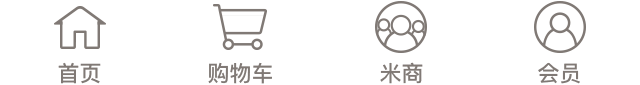
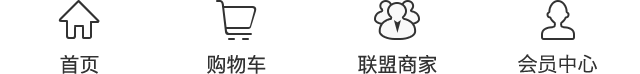
佣金功能调整，雪碧图优化 等。

diff --git a/themes/mobiles/css/m.css b/themes/mobiles/css/m.css
@@ -1511,8 +1511,8 @@ a.ph_btn{
 }
 
 .is_confirm{
-  top: 55%;
-  left: -20%;
+  top: -35%;
+  left: 30%;
   -webkit-animation: cartFly .6s ease 0s 1 both;
   animation: cartFly .6s ease 0s 1 both; 
 }
@@ -5467,37 +5467,45 @@ td.cash_td2 img {
   	text-align: center;	
 }
 
-#s_sy{
-	background:url(../img/sy1.png) no-repeat center;
-	background-size:40px 36px;
+#s_sy {
+	background: url(../img/bot_n.png) no-repeat;
+	background-position: 0px 5px;
+	background-size: auto 37px;
 }
-#s_sy.on{
-	background:url(../img/sy2.png) no-repeat center;
-	background-size:40px 36px;
+#s_sy.on {
+	background: url(../img/bot_p.png) no-repeat;
+	background-position: 0 5px;
+	background-size: auto 37px;
 }
-#s_gwc{
-	background:url(../img/gwc1.png) no-repeat center;
-	background-size:40px 36px;
+#s_gwc {
+	background: url(../img/bot_n.png) no-repeat;
+	background-position: -78px 5px;
+	background-size: auto 37px;
 }
-#s_gwc.on{
-	background:url(../img/gwc2.png) no-repeat center;
-	background-size:40px 36px;
+#s_gwc.on {
+	background: url(../img/bot_p.png) no-repeat;
+	background-position: -78px 5px;
+	background-size: auto 37px;
 }
-#s_lmsj{
-	background:url(../img/lmsj1.png) no-repeat center;
-	background-size:40px 36px;
+#s_lmsj {
+	background: url(../img/bot_n.png) no-repeat;
+	background-position: -160px 5px;
+	background-size: auto 37px;
 }
-#s_lmsj.on{
-	background:url(../img/lmsj2.png) no-repeat center;
-	background-size:40px 36px;
+#s_lmsj.on {
+	background: url(../img/bot_p.png) no-repeat;
+	background-position: -160px 5px;
+	background-size: auto 37px;
 }
-#s_hyzx{
-	background:url(../img/hyzx1.png) no-repeat center;
-	background-size:40px 36px;
+#s_hyzx {
+	background: url(../img/bot_n.png) no-repeat;
+	background-position: -240px 5px;	
+	background-size: auto 37px;
 }
-#s_hyzx.on{
-	background:url(../img/hyzx2.png) no-repeat center;
-	background-size:40px 36px;
+#s_hyzx.on {
+	background: url(../img/bot_p.png) no-repeat;
+	background-position: -240px 5px;
+	background-size: auto 37px;
 }
 
 /* 支付成功*/

diff --git a/cwstat.php b/cwstat.php
@@ -194,7 +194,7 @@ elseif (3==$type) { //代理相关数据
 $from_time = $from_time ? simphp_gmtime($from_time) : 0;
 	$to_time   = $to_time   ? simphp_gmtime($to_time)   : 0;
 	
-	$csv = "商家名称,商家ID,订单号,父订单编号,微信交易号,订单金额,进货价(商家收入),产生佣金,订单时间,快递单号".CSV_LN;
+	$csv = "商家名称,商家ID,订单号,父订单编号,微信交易号,订单金额,折扣后金额,进货价(商家收入),产生佣金,订单时间,快递单号".CSV_LN;
 	
 	//获取商家收入订单详情
 	$list = ThisFn::getMerchantPackageOrderDetail($from_time, $to_time, true);
@@ -202,20 +202,22 @@ $from_time = $from_time ? simphp_gmtime($from_time) : 0;
 		$totalOrderAmount  = 0.00;
 		$totalIncomePrice  = 0.00;
 		$totalCommision    = 0.00;
+		$totalDiscount = 0.00;
 		foreach ($list AS $it) {
 			$it['merchant_id'] = $it['merchant_id'] ? : '';
-			$csv .= '"'.$it['merchant_name'].'"'.CSV_SEP.$it['merchant_id'].CSV_SEP.$it['order_sn'].CSV_SEP.$it['parent_id'].CSV_SEP.$it['pay_trade_no'].CSV_SEP.$it['money_paid'].CSV_SEP.$it['income_price'].CSV_SEP.$it['commision'].CSV_SEP.'"'.simphp_dtime('std',simphp_gmtime2std($it['pay_time'])).'"'.CSV_SEP.'"'.$it['invoice_no'].'"'.CSV_LN;
+			$csv .= '"'.$it['merchant_name'].'"'.CSV_SEP.$it['merchant_id'].CSV_SEP.$it['order_sn'].CSV_SEP.$it['parent_id'].CSV_SEP.$it['pay_trade_no'].CSV_SEP.$it['money_paid'].CSV_SEP.$it['discount'].CSV_SEP.$it['income_price'].CSV_SEP.$it['commision'].CSV_SEP.'"'.simphp_dtime('std',simphp_gmtime2std($it['pay_time'])).'"'.CSV_SEP.'"'.$it['invoice_no'].'"'.CSV_LN;
 			$totalOrderAmount += $it['money_paid'];
 			$totalIncomePrice += $it['income_price'];
 			$totalCommision   += $it['commision'];
+			$totalDiscount += $it['discount'];
 		}
-		$csv .= '合计'.CSV_SEP.'--'.CSV_SEP.'--'.CSV_SEP.'--'.CSV_SEP.$totalOrderAmount.CSV_SEP.$totalIncomePrice.CSV_SEP.$totalCommision.CSV_SEP.'--'.'--'.CSV_LN;
+		$csv .= '合计'.CSV_SEP.'--'.CSV_SEP.'--'.CSV_SEP.'--'.CSV_SEP.'--'.CSV_SEP.$totalOrderAmount.CSV_SEP.$totalDiscount.CSV_SEP.$totalIncomePrice.CSV_SEP.$totalCommision.CSV_SEP.'--'.'--'.CSV_LN;
 	}
 }elseif (5 == $type){
     $from_time = $from_time ? simphp_gmtime($from_time) : 0;
 	$to_time   = $to_time   ? simphp_gmtime($to_time)   : 0;
 	
-	$csv = "商家名称,商家ID,订单号,父订单编号,微信交易号,订单金额,进货价(商家收入),产生佣金,订单时间,快递单号".CSV_LN;
+	$csv = "商家名称,商家ID,订单号,父订单编号,微信交易号,订单金额,折扣后金额,进货价(商家收入),产生佣金,订单时间,快递单号".CSV_LN;
 	
 	//获取商家收入订单详情
 	$list = ThisFn::getMerchantPackageOrderDetail($from_time, $to_time);
@@ -223,14 +225,16 @@ $from_time = $from_time ? simphp_gmtime($from_time) : 0;
 		$totalOrderAmount  = 0.00;
 		$totalIncomePrice  = 0.00;
 		$totalCommision    = 0.00;
+		$totalDiscount = 0.00;
 		foreach ($list AS $it) {
 			$it['merchant_id'] = $it['merchant_id'] ? : '';
-			$csv .= '"'.$it['merchant_name'].'"'.CSV_SEP.$it['merchant_id'].CSV_SEP.$it['order_sn'].CSV_SEP.$it['parent_id'].CSV_SEP.$it['pay_trade_no'].CSV_SEP.$it['money_paid'].CSV_SEP.$it['income_price'].CSV_SEP.$it['commision'].CSV_SEP.'"'.simphp_dtime('std',simphp_gmtime2std($it['pay_time'])).'"'.CSV_SEP.'"'.$it['invoice_no'].'"'.CSV_LN;
+			$csv .= '"'.$it['merchant_name'].'"'.CSV_SEP.$it['merchant_id'].CSV_SEP.$it['order_sn'].CSV_SEP.$it['parent_id'].CSV_SEP.$it['pay_trade_no'].CSV_SEP.$it['money_paid'].CSV_SEP.$it['discount'].CSV_SEP.$it['income_price'].CSV_SEP.$it['commision'].CSV_SEP.'"'.simphp_dtime('std',simphp_gmtime2std($it['pay_time'])).'"'.CSV_SEP.'"'.$it['invoice_no'].'"'.CSV_LN;
 			$totalOrderAmount += $it['money_paid'];
 			$totalIncomePrice += $it['income_price'];
 			$totalCommision   += $it['commision'];
+			$totalDiscount += $it['discount'];
 		}
-		$csv .= '合计'.CSV_SEP.'--'.CSV_SEP.'--'.CSV_SEP.'--'.CSV_SEP.$totalOrderAmount.CSV_SEP.$totalIncomePrice.CSV_SEP.$totalCommision.CSV_SEP.'--'.'--'.CSV_LN;
+		$csv .= '合计'.CSV_SEP.'--'.CSV_SEP.'--'.CSV_SEP.'--'.CSV_SEP.'--'.CSV_SEP.$totalOrderAmount.CSV_SEP.$totalDiscount.CSV_SEP.$totalIncomePrice.CSV_SEP.$totalCommision.CSV_SEP.'--'.'--'.CSV_LN;
 	}
 }elseif (6 == $type){
     $from_time = $from_time ? simphp_gmtime($from_time) : 0;
@@ -513,11 +517,27 @@ ORDER BY merchant_id DESC, order_id ASC";
 	    }else{
 	        $where .= " and (shipping_status = 0 or (shipping_status > 0 and shipping_status <> 2 and shipping_time > 0 and shipping_time > {$time})) ";
 	    }
-	    $sql = "SELECT o.`merchant_ids` AS merchant_id, IFNULL(m.facename,'【测试商家】') AS merchant_name, o.`order_id`,o.parent_id,o.`order_sn`, o.`pay_trade_no`, o.`money_paid`, (o.`money_paid`-o.`commision`) AS income_price, o.`commision`, o.`pay_time`, o.`invoice_no`
+	    $sql = "SELECT o.`merchant_ids` AS merchant_id, IFNULL(m.facename,'【测试商家】') AS merchant_name,o.relate_order_id, o.`order_id`,o.parent_id,o.`order_sn`, o.`pay_trade_no`, o.`money_paid`, (o.`money_paid`-o.`commision`) AS income_price, o.`commision`, o.`pay_time`, o.`invoice_no`
 	    FROM  `shp_order_info` AS o LEFT JOIN `shp_merchant` AS m ON o.`merchant_ids` = m.merchant_id
 	    WHERE o.`pay_status`=2 AND o.`is_separate`=0 {$where}
 	    ORDER BY merchant_id DESC, order_id ASC";
 	    $list = D()->query($sql)->fetch_array_all();
+	    foreach ($list as &$it){
+	        $relate_order_id = $it['relate_order_id'];
+	        $order = Order::load($relate_order_id);
+	        $money = $order->money_paid;
+	        $radio = 0;
+	        if($money == 698){
+	            $radio = 500;
+	        }else if($money == 398){
+	            $radio = 300;
+	        }
+	        $it['discount'] = $it['money_paid'];
+	        if($radio){
+	            $it['discount'] = number_format(($it['money_paid']/$money), 3) * $radio;
+	            $it['commision'] = $it['discount'] - $it['income_price'];
+	        }
+	    }
 	    /* if($canSettlement){
 	        foreach ($list as $order){
 	            D()->query("insert into tb_tmp_settlement(order_id) values($order[order_id])");

diff --git a/statistic/OverviewData.php b/statistic/OverviewData.php
@@ -313,10 +313,11 @@ class OverviewData{
         }
         if($orderFlag === 0){
             $where .= " and order_flag = 0 ";
-        }else if($orderFlag > 0){
+            $sql = "select sum(commision) from shp_order_info where pay_status = 2 and is_separate = 0 $where ";
+        }else if($orderFlag == 1 || $orderFlag == 2){
             $where .= " and order_flag = $orderFlag ";
+            $sql = "select sum(money_paid) from shp_order_info where pay_status = 2 and is_separate = 0 $where ";
         }
-        $sql = "select sum(money_paid) from shp_order_info where pay_status = 2 and is_separate = 0 $where ";
         return D()->query($sql)->result();    
     }
     
@@ -351,26 +352,6 @@ class OverviewData{
     }
     
     public function platformAnalysis(){
-        //商品销售毛收入
-        $gpaid = $this->getOrderMoney('', 0);
-        $gpaidInDay = $this->getOrderMoney(self::DAY, 0);
-        $gpaidInWeek = $this->getOrderMoney(self::WEEK, 0);
-        $gpaidInMonth = $this->getOrderMoney(self::MONTH, 0);
-        //代理毛收入
-        $dlpaid = $this->getOrderMoney('', 1);
-        $dlpaidInDay = $this->getOrderMoney(self::DAY, 1);
-        $dlpaidInWeek = $this->getOrderMoney(self::WEEK, 1);
-        $dlpaidInMonth = $this->getOrderMoney(self::MONTH, 1);
-        //商品入驻毛收入
-        $rzpaid = $this->getOrderMoney('', 2);
-        $rzpaidInDay = $this->getOrderMoney(self::DAY, 2);
-        $rzpaidInWeek = $this->getOrderMoney(self::WEEK, 2);
-        $rzpaidInMonth = $this->getOrderMoney(self::MONTH, 2);
-        //平台毛收入
-        $paid = $gpaid + $dlpaid + $rzpaid;
-        $paidInDay = $gpaidInDay + $dlpaidInDay + $rzpaidInDay;
-        $paidInWeek = $gpaidInWeek + $dlpaidInWeek + $rzpaidInWeek;
-        $paidInMonth = $gpaidInMonth + $dlpaidInMonth + $rzpaidInMonth;
         //商品销售佣金
         $gcommision = $this->getCommisionMoney('', "".UserCommision::COMMISSION_TYPE_FX.",".UserCommision::COMMISSION_TYPE_JY."");
         $gcommisionInD = $this->getCommisionMoney(self::DAY, "".UserCommision::COMMISSION_TYPE_FX.",".UserCommision::COMMISSION_TYPE_JY."");
@@ -386,11 +367,32 @@ class OverviewData{
         $rzcommisionInD = $this->getCommisionMoney(self::DAY, UserCommision::COMMISSION_TYPE_RZ);
         $rzcommisionInW = $this->getCommisionMoney(self::WEEK, UserCommision::COMMISSION_TYPE_RZ);
         $rzcommisionInM = $this->getCommisionMoney(self::MONTH, UserCommision::COMMISSION_TYPE_RZ);
+        //商品销售毛收入 = 所有佣金 - 拨出佣金
+        $gpaid = $this->getOrderMoney('', 0) - $gcommision;
+        $gpaidInDay = $this->getOrderMoney(self::DAY, 0) - $gcommisionInD;
+        $gpaidInWeek = $this->getOrderMoney(self::WEEK, 0) - $gcommisionInW;
+        $gpaidInMonth = $this->getOrderMoney(self::MONTH, 0) - $gcommisionInM;
         //套餐成本
         $package = $this->getPackageIncome();
         $packageInD = $this->getPackageIncome(self::DAY);
         $packageInW = $this->getPackageIncome(self::WEEK);
         $packageInM = $this->getPackageIncome(self::MONTH);
+        //平台代理毛收入 = 总收入 - 拨出的佣金 - 套餐成本
+        $dlpaid = $this->getOrderMoney('', 1) - $dlcommision - $package;
+        $dlpaidInDay = $this->getOrderMoney(self::DAY, 1) - $dlcommisionInD - $packageInD;
+        $dlpaidInWeek = $this->getOrderMoney(self::WEEK, 1) - $dlcommisionInW - $packageInW;
+        $dlpaidInMonth = $this->getOrderMoney(self::MONTH, 1) - $dlcommisionInM - $packageInM;
+        //商品入驻毛收入 = 所有支付金额 - 拨出佣金
+        $rzpaid = $this->getOrderMoney('', 2) - $rzcommision;
+        $rzpaidInDay = $this->getOrderMoney(self::DAY, 2) - $rzcommisionInD;
+        $rzpaidInWeek = $this->getOrderMoney(self::WEEK, 2) - $rzcommisionInW;
+        $rzpaidInMonth = $this->getOrderMoney(self::MONTH, 2) - $rzcommisionInM;
+        //平台毛收入
+        $paid = $gpaid + $dlpaid + $rzpaid;
+        $paidInDay = $gpaidInDay + $dlpaidInDay + $rzpaidInDay;
+        $paidInWeek = $gpaidInWeek + $dlpaidInWeek + $rzpaidInWeek;
+        $paidInMonth = $gpaidInMonth + $dlpaidInMonth + $rzpaidInMonth;
+        
         return array($gpaid,$gpaidInDay,$gpaidInWeek,$gpaidInMonth,$dlpaid,$dlpaidInDay,$dlpaidInWeek,$dlpaidInMonth,
             $rzpaid,$rzpaidInDay,$rzpaidInWeek,$rzpaidInMonth,$paid,$paidInDay,$paidInWeek,$paidInMonth,
             $gcommision,$gcommisionInD,$gcommisionInW,$gcommisionInM,$dlcommision,$dlcommisionInD,$dlcommisionInW,$dlcommisionInM,

diff --git a/incs/models/class.UserCommision.php b/incs/models/class.UserCommision.php
@@ -124,7 +124,7 @@ class UserCommision extends StorageNode {
 	    $itemDesc = OrderItems::getGoodsNameByOrder($order_id);
 	    self::merchantHandle($cUser, $exOrder, $itemDesc);
 	    $total_commision = $exOrder->commision;
-	    if(!$total_commision){
+	    if(!$total_commision || $total_commision <= 0){
 	        return false;
 	    }
 	    //扣除平台的20%
@@ -258,7 +258,7 @@ class UserCommision extends StorageNode {
 	        return;
 	    }
 	    $commision = $exOrder->commision;
-	    if(!$commision){
+	    if(!$commision || $commision <= 0){
 	        return;
 	    }
 	    //查找当前订单商家对应的推荐人
@@ -460,6 +460,9 @@ class UserCommision extends StorageNode {
 	 * @param unknown $share_radio
 	 */
 	static function createCommisionForGoodsFX($buyer, $cUser, $exOrder, $commision, $parent_level, $type, $share_radio){
+	    if($commision <= 0){
+	        return;
+	    }
 	    $radio = $share_radio[$parent_level];
 	    $radio = $radio ? $radio : 0;
 	    $commision = number_format($commision*$radio,2);
@@ -477,6 +480,9 @@ class UserCommision extends StorageNode {
 	 * @param unknown $commision
 	 */
 	static function createCommision($buyer, $cUser, $exOrder, $parent_level, $type, $radio, $commision){
+	    if($commision <= 0){
+	        return;
+	    }
 	    $upUC = new UserCommision();
 	    $upUC->user_id      = $cUser->uid;
 	    $upUC->parent_level = $parent_level;
